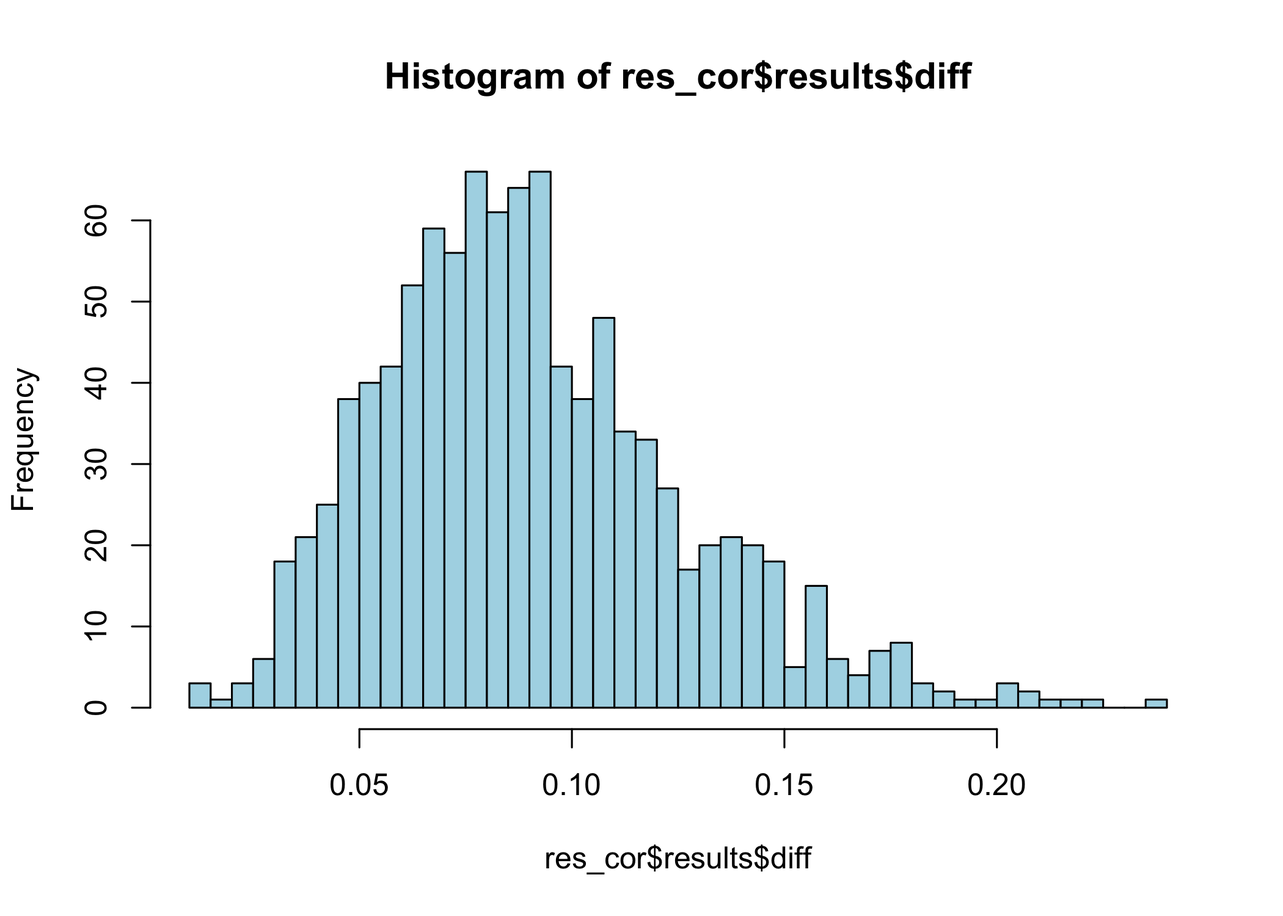
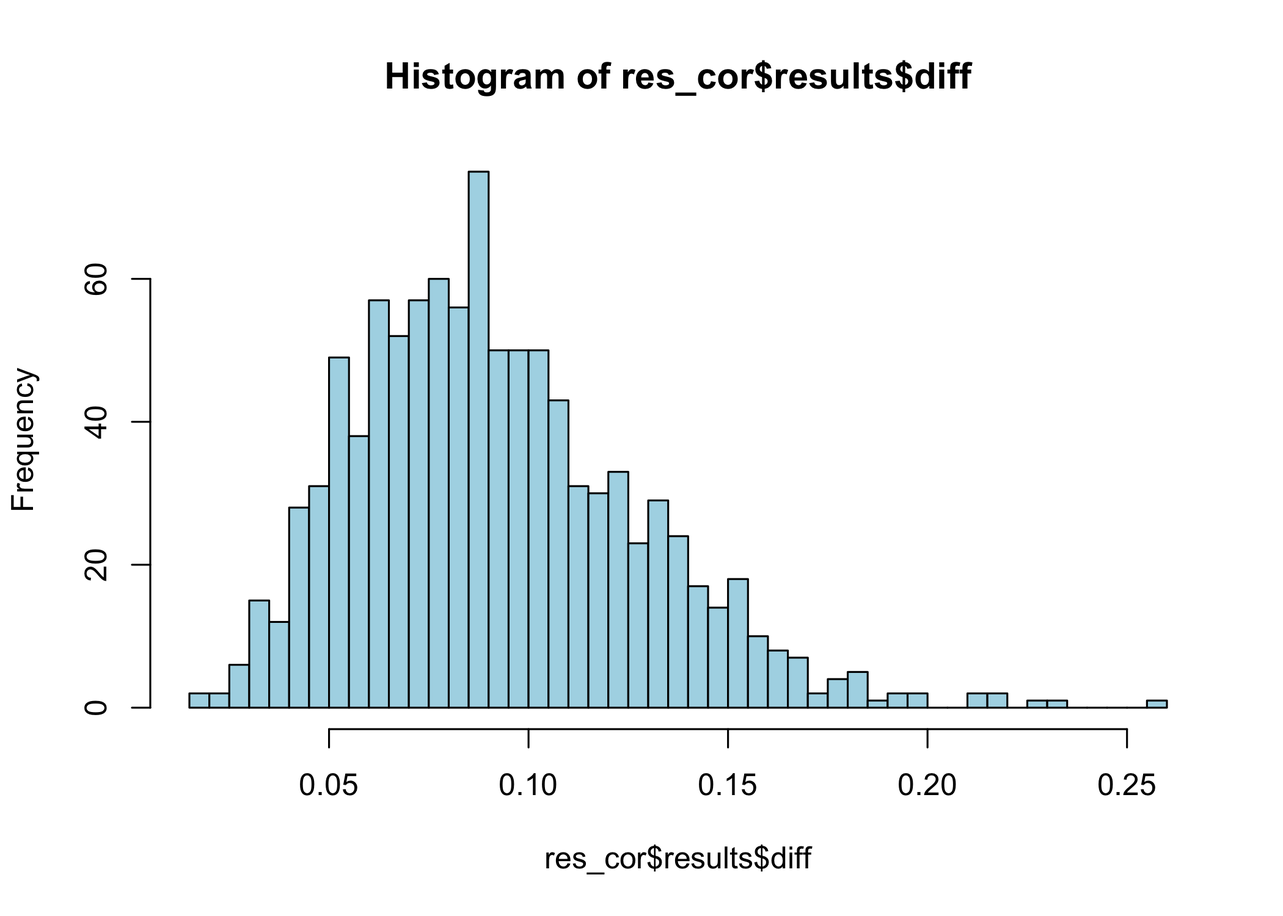
0.2.1 package update

diff --git a/docs/simcutoffs.html b/docs/simcutoffs.html
@@ -257,7 +257,6 @@ div.csl-indent {
 <p>It has long been known that rule-of-thumb cutoff values in psychometrics are not optimal (and often misguiding), and that simulations are helpful for determining appropriate cutoff values based on the properties of the sample and items being analyzed. This actually goes for factor analysis, as well as item response theory and Rasch measurement theory. In recent years, we have seen a number of interactive Shiny apps made available to help solve this issue, which is clearly a step in the right direction.</p>
 <p>My approach here is to write functions to help users easily run these simulations on their computers in R, when they do their psychometric analysis.</p>
 <p>This blog post will be incorporated into the <a href="https://pgmj.github.io/raschrvignette/RaschRvign.html"><code>RISEkbmRasch</code> vignette</a> at some point, but as I just put quite a bit of time into developing these functions I wanted to write something about it. Also, I have not put all that much time into testing, so I hope to hear about any problems you may run into if you try these functions out.</p>
-<p>Since I mostly work with polytomous data, I usually start out developing functions for this type of data. This is also the case now, and I hope to find time to also get dichotomous data working soon.</p>
 <p>Finally, I want to thank Karl Bang Christensen for a very nice presentation on item fit and simulations at the Scandinavian Applied Measurement Conference, which made me think about these things a lot until I came up with the idea to implement these functions.</p>
 </section><section id="residual-correlations" class="level2" data-number="2"><h2 data-number="2" class="anchored" data-anchor-id="residual-correlations">
 <span class="header-section-number">2</span> Residual correlations</h2>
@@ -277,15 +276,15 @@ div.csl-indent {
 </details><div class="cell-output cell-output-stdout">
 <pre><code>List of 8
  $ results    :'data.frame':    1000 obs. of  3 variables:
-  ..$ mean: num [1:1000] -0.263 -0.269 -0.254 -0.268 -0.26 ...
-  ..$ max : num [1:1000] -0.214 -0.154 -0.184 -0.211 -0.233 ...
-  ..$ diff: num [1:1000] 0.0491 0.1153 0.0705 0.0572 0.0275 ...
+  ..$ mean: num [1:1000] -0.26 -0.261 -0.254 -0.268 -0.263 ...
+  ..$ max : num [1:1000] -0.143 -0.162 -0.141 -0.201 -0.128 ...
+  ..$ diff: num [1:1000] 0.1161 0.0994 0.1131 0.0666 0.1345 ...
  $ sample_n   : int 300
  $ sample_mean: num 0.684
  $ sample_sd  : num 1.54
- $ max_diff   : num 0.239
- $ sd_diff    : num 0.0357
- $ q95        : Named num 0.156
+ $ max_diff   : num 0.257
+ $ sd_diff    : num 0.0353
+ $ q95        : Named num 0.154
   ..- attr(*, "names")= chr "95%"
  $ q99        : Named num 0.19
   ..- attr(*, "names")= chr "99%"</code></pre>
@@ -337,7 +336,7 @@ div.csl-indent {
 <tfoot>
 <tr><td style="padding: 0; " colspan="100%"><span style="font-style: italic;">Note: </span></td></tr>
 <tr><td style="padding: 0; " colspan="100%">
-<sup></sup> Relative cut-off value (highlighted in red) is -0.036, which is 0.19 above the average correlation.</td></tr>
+<sup></sup> Relative cut-off value (highlighted in red) is -0.036, which is 0.19 above the average correlation (-0.226).</td></tr>
 </tfoot>
 </table>
 </div>
@@ -355,7 +354,7 @@ div.csl-indent {
 <details open="" class="code-fold"><summary>Code</summary><div class="sourceCode" id="cb7"><pre class="downlit sourceCode r code-with-copy"><code class="sourceCode R"><span><span class="fu"><a href="https://rdrr.io/r/base/summary.html">summary</a></span><span class="op">(</span><span class="va">res_cor</span><span class="op">$</span><span class="va">results</span><span class="op">$</span><span class="va">diff</span><span class="op">)</span></span></code><button title="Copy to Clipboard" class="code-copy-button"><i class="bi"></i></button></pre></div>
 </details><div class="cell-output cell-output-stdout">
 <pre><code>   Min. 1st Qu.  Median    Mean 3rd Qu.    Max. 
-0.01416 0.06503 0.08584 0.09019 0.11034 0.23907 </code></pre>
+0.01910 0.06607 0.08714 0.09183 0.11278 0.25666 </code></pre>
 </div>
 </div>
 </section><section id="item-fit" class="level2" data-number="3"><h2 data-number="3" class="anchored" data-anchor-id="item-fit">
@@ -383,13 +382,13 @@ Note
 <details open="" class="code-fold"><summary>Code</summary><div class="sourceCode" id="cb10"><pre class="downlit sourceCode r code-with-copy"><code class="sourceCode R"><span><span class="va">itemfit_sim</span><span class="op">[[</span><span class="fl">1</span><span class="op">]</span><span class="op">]</span></span></code><button title="Copy to Clipboard" class="code-copy-button"><i class="bi"></i></button></pre></div>
 </details><div class="cell-output cell-output-stdout">
 <pre><code>  item outfit_msq infit_msq outfit_zstd infit_zstd
-1   V1      1.008     0.998      -2.244     -2.495
-2   V2      0.866     0.891      -3.628     -4.213
-3   V3      1.044     1.069      -1.212     -1.190
-4   V4      1.035     1.049      -1.827     -2.237</code></pre>
+1   V1      1.013     0.953      -2.165     -2.916
+2   V2      0.892     0.982      -3.034     -3.026
+3   V3      0.993     0.994      -1.650     -2.012
+4   V4      1.105     1.066      -1.057     -1.689</code></pre>
 </div>
 </div>
-<p>This object can in turn be used with three different functions. Most importantly, you can use it with <code><a href="https://rdrr.io/pkg/RISEkbmRasch/man/RIitemfitPCM.html">RIitemfitPCM()</a></code> to set cutoff values for both MSQ and ZSTD based on your sample size and item parameters. This uses the lowest and highest value from <em>all</em> items as cutoff for all items. This is not ideal, but was the easiest to implement. There will be “custom” cutoffs for every item in the near future.</p>
+<p>This object can in turn be used with three different functions. Most importantly, you can use it with <code><a href="https://rdrr.io/pkg/RISEkbmRasch/man/RIitemfitPCM.html">RIitemfitPCM()</a></code> to set cutoff values for both MSQ and ZSTD based on your sample size and item parameters. This uses the lowest and highest value from <em>all</em> items as cutoff for all items. This is not ideal, but was the easiest to implement. There will be “custom” cutoffs for every item in the near future. Also, <code><a href="https://rdrr.io/pkg/RISEkbmRasch/man/RIitemfitRM.html">RIitemfitRM()</a></code> has not yet been updated to make use of simulation based cutoffs.</p>
 <div class="cell">
 <details open="" class="code-fold"><summary>Code</summary><div class="sourceCode" id="cb12"><pre class="downlit sourceCode r code-with-copy"><code class="sourceCode R"><span><span class="fu"><a href="https://rdrr.io/pkg/RISEkbmRasch/man/RIitemfitPCM.html">RIitemfitPCM</a></span><span class="op">(</span><span class="va">pcmdat2</span>, simcut <span class="op">=</span> <span class="cn">TRUE</span>, gf <span class="op">=</span> <span class="va">itemfit_sim</span><span class="op">)</span></span></code><button title="Copy to Clipboard" class="code-copy-button"><i class="bi"></i></button></pre></div>
 </details><div class="cell-output-display">
@@ -444,9 +443,9 @@ Note
 <details open="" class="code-fold"><summary>Code</summary><div class="sourceCode" id="cb13"><pre class="downlit sourceCode r code-with-copy"><code class="sourceCode R"><span><span class="fu"><a href="https://rdrr.io/pkg/RISEkbmRasch/man/RIgetfitLoHi.html">RIgetfitLoHi</a></span><span class="op">(</span><span class="va">itemfit_sim</span><span class="op">)</span></span></code><button title="Copy to Clipboard" class="code-copy-button"><i class="bi"></i></button></pre></div>
 </details><div class="cell-output cell-output-stdout">
 <pre><code>  max_infit_msq min_infit_msq max_outfit_msq min_outfit_msq max_infit_zstd
-1         1.233           0.8          1.527          0.726          0.258
+1          1.28         0.795          1.422          0.742           0.44
   min_infit_zstd max_outfit_zstd min_outfit_zstd
-1         -5.208           1.034           -4.55</code></pre>
+1         -5.164           0.779          -4.776</code></pre>
 </div>
 </div>
 <p>If you want to see a table with the individual item fit upper/lower cutoffs for all metrics, the function <code><a href="https://rdrr.io/pkg/RISEkbmRasch/man/RIgetfitTable.html">RIgetfitTable()</a></code> is used with the output object from <code><a href="https://rdrr.io/pkg/RISEkbmRasch/man/RIgetfit.html">RIgetfit()</a></code> as input.</p>
@@ -464,31 +463,31 @@ Note
 <tbody>
 <tr>
 <td style="text-align:left;"> V1 </td>
-   <td style="text-align:left;"> [0.826, 1.185] </td>
-   <td style="text-align:left;"> [0.78, 1.239] </td>
-   <td style="text-align:left;"> [-4.727, -0.303] </td>
-   <td style="text-align:left;"> [-4.55, -0.139] </td>
+   <td style="text-align:left;"> [0.815, 1.234] </td>
+   <td style="text-align:left;"> [0.784, 1.316] </td>
+   <td style="text-align:left;"> [-4.88, 0.078] </td>
+   <td style="text-align:left;"> [-4.68, 0.5] </td>
   </tr>
 <tr>
 <td style="text-align:left;"> V2 </td>
-   <td style="text-align:left;"> [0.808, 1.221] </td>
-   <td style="text-align:left;"> [0.726, 1.527] </td>
-   <td style="text-align:left;"> [-5.208, -0.483] </td>
-   <td style="text-align:left;"> [-4.29, 0.313] </td>
+   <td style="text-align:left;"> [0.806, 1.24] </td>
+   <td style="text-align:left;"> [0.75, 1.422] </td>
+   <td style="text-align:left;"> [-5.164, -0.632] </td>
+   <td style="text-align:left;"> [-4.569, 0.141] </td>
   </tr>
 <tr>
 <td style="text-align:left;"> V3 </td>
-   <td style="text-align:left;"> [0.806, 1.192] </td>
-   <td style="text-align:left;"> [0.74, 1.282] </td>
-   <td style="text-align:left;"> [-4.269, 0.258] </td>
-   <td style="text-align:left;"> [-4.056, 1.034] </td>
+   <td style="text-align:left;"> [0.8, 1.167] </td>
+   <td style="text-align:left;"> [0.752, 1.296] </td>
+   <td style="text-align:left;"> [-4.316, 0.133] </td>
+   <td style="text-align:left;"> [-3.882, 0.779] </td>
   </tr>
 <tr>
 <td style="text-align:left;"> V4 </td>
-   <td style="text-align:left;"> [0.8, 1.233] </td>
-   <td style="text-align:left;"> [0.796, 1.388] </td>
-   <td style="text-align:left;"> [-4.77, 0.141] </td>
-   <td style="text-align:left;"> [-4.09, 0.862] </td>
+   <td style="text-align:left;"> [0.795, 1.28] </td>
+   <td style="text-align:left;"> [0.742, 1.287] </td>
+   <td style="text-align:left;"> [-4.957, 0.44] </td>
+   <td style="text-align:left;"> [-4.776, 0.41] </td>
   </tr>
 </tbody>
 <tfoot>
@@ -536,7 +535,7 @@ attached base packages:
 
 other attached packages:
  [1] ggdist_3.3.2       doParallel_1.0.17  iterators_1.0.14   foreach_1.5.2     
- [5] RISEkbmRasch_0.2.0 janitor_2.2.0      iarm_0.4.3         hexbin_1.28.3     
+ [5] RISEkbmRasch_0.2.1 janitor_2.2.0      iarm_0.4.3         hexbin_1.28.3     
  [9] catR_3.17          glue_1.7.0         ggrepel_0.9.5      patchwork_1.2.0   
 [13] reshape_0.8.9      matrixStats_1.3.0  psychotree_0.16-1  psychotools_0.7-4 
 [17] partykit_1.2-21    mvtnorm_1.2-5      libcoin_1.0-10     psych_2.4.6.26    
@@ -1113,107 +1112,105 @@ window.document.addEventListener("DOMContentLoaded", function (event) {
 <span id="cb19-29"><a href="#cb19-29" aria-hidden="true" tabindex="-1"></a></span>
 <span id="cb19-30"><a href="#cb19-30" aria-hidden="true" tabindex="-1"></a>This blog post will be incorporated into the <span class="co">[</span><span class="ot">`RISEkbmRasch` vignette</span><span class="co">](https://pgmj.github.io/raschrvignette/RaschRvign.html)</span> at some point, but as I just put quite a bit of time into developing these functions I wanted to write something about it. Also, I have not put all that much time into testing, so I hope to hear about any problems you may run into if you try these functions out.</span>
 <span id="cb19-31"><a href="#cb19-31" aria-hidden="true" tabindex="-1"></a></span>
-<span id="cb19-32"><a href="#cb19-32" aria-hidden="true" tabindex="-1"></a>Since I mostly work with polytomous data, I usually start out developing functions for this type of data. This is also the case now, and I hope to find time to also get dichotomous data working soon.</span>
+<span id="cb19-32"><a href="#cb19-32" aria-hidden="true" tabindex="-1"></a>Finally, I want to thank Karl Bang Christensen for a very nice presentation on item fit and simulations at the Scandinavian Applied Measurement Conference, which made me think about these things a lot until I came up with the idea to implement these functions.</span>
 <span id="cb19-33"><a href="#cb19-33" aria-hidden="true" tabindex="-1"></a></span>
-<span id="cb19-34"><a href="#cb19-34" aria-hidden="true" tabindex="-1"></a>Finally, I want to thank Karl Bang Christensen for a very nice presentation on item fit and simulations at the Scandinavian Applied Measurement Conference, which made me think about these things a lot until I came up with the idea to implement these functions.</span>
+<span id="cb19-34"><a href="#cb19-34" aria-hidden="true" tabindex="-1"></a><span class="fu">## Residual correlations</span></span>
 <span id="cb19-35"><a href="#cb19-35" aria-hidden="true" tabindex="-1"></a></span>
-<span id="cb19-36"><a href="#cb19-36" aria-hidden="true" tabindex="-1"></a><span class="fu">## Residual correlations</span></span>
+<span id="cb19-36"><a href="#cb19-36" aria-hidden="true" tabindex="-1"></a>This is the simpler of the two functions that have been added. It is based on the simulation study by Christensen et al. <span class="co">[</span><span class="ot">-@christensen2017</span><span class="co">]</span>.</span>
 <span id="cb19-37"><a href="#cb19-37" aria-hidden="true" tabindex="-1"></a></span>
-<span id="cb19-38"><a href="#cb19-38" aria-hidden="true" tabindex="-1"></a>This is the simpler of the two functions that have been added. It is based on the simulation study by Christensen et al. <span class="co">[</span><span class="ot">-@christensen2017</span><span class="co">]</span>.</span>
-<span id="cb19-39"><a href="#cb19-39" aria-hidden="true" tabindex="-1"></a></span>
-<span id="cb19-42"><a href="#cb19-42" aria-hidden="true" tabindex="-1"></a><span class="in">```{r}</span></span>
-<span id="cb19-43"><a href="#cb19-43" aria-hidden="true" tabindex="-1"></a><span class="fu">library</span>(RISEkbmRasch)</span>
-<span id="cb19-44"><a href="#cb19-44" aria-hidden="true" tabindex="-1"></a><span class="in">```</span></span>
+<span id="cb19-40"><a href="#cb19-40" aria-hidden="true" tabindex="-1"></a><span class="in">```{r}</span></span>
+<span id="cb19-41"><a href="#cb19-41" aria-hidden="true" tabindex="-1"></a><span class="fu">library</span>(RISEkbmRasch)</span>
+<span id="cb19-42"><a href="#cb19-42" aria-hidden="true" tabindex="-1"></a><span class="in">```</span></span>
+<span id="cb19-43"><a href="#cb19-43" aria-hidden="true" tabindex="-1"></a></span>
+<span id="cb19-44"><a href="#cb19-44" aria-hidden="true" tabindex="-1"></a>For simplicity, we will use the dataset <span class="in">`pcmdat2`</span> included in the <span class="in">`eRm`</span> package.</span>
 <span id="cb19-45"><a href="#cb19-45" aria-hidden="true" tabindex="-1"></a></span>
-<span id="cb19-46"><a href="#cb19-46" aria-hidden="true" tabindex="-1"></a>For simplicity, we will use the dataset <span class="in">`pcmdat2`</span> included in the <span class="in">`eRm`</span> package.</span>
-<span id="cb19-47"><a href="#cb19-47" aria-hidden="true" tabindex="-1"></a></span>
-<span id="cb19-50"><a href="#cb19-50" aria-hidden="true" tabindex="-1"></a><span class="in">```{r}</span></span>
-<span id="cb19-51"><a href="#cb19-51" aria-hidden="true" tabindex="-1"></a>res_cor <span class="ot">&lt;-</span> <span class="fu">RIgetResidCor</span>(pcmdat2, <span class="at">iterations =</span> <span class="dv">1000</span>, <span class="at">cpu =</span> <span class="dv">8</span>)</span>
-<span id="cb19-52"><a href="#cb19-52" aria-hidden="true" tabindex="-1"></a><span class="in">```</span></span>
+<span id="cb19-48"><a href="#cb19-48" aria-hidden="true" tabindex="-1"></a><span class="in">```{r}</span></span>
+<span id="cb19-49"><a href="#cb19-49" aria-hidden="true" tabindex="-1"></a>res_cor <span class="ot">&lt;-</span> <span class="fu">RIgetResidCor</span>(pcmdat2, <span class="at">iterations =</span> <span class="dv">1000</span>, <span class="at">cpu =</span> <span class="dv">8</span>)</span>
+<span id="cb19-50"><a href="#cb19-50" aria-hidden="true" tabindex="-1"></a><span class="in">```</span></span>
+<span id="cb19-51"><a href="#cb19-51" aria-hidden="true" tabindex="-1"></a></span>
+<span id="cb19-52"><a href="#cb19-52" aria-hidden="true" tabindex="-1"></a>While we are mostly interested in the 99% percentile from the simulation (<span class="in">`q99`</span>), we will save the output of the simulation into the object <span class="in">`res_cor`</span>.</span>
 <span id="cb19-53"><a href="#cb19-53" aria-hidden="true" tabindex="-1"></a></span>
-<span id="cb19-54"><a href="#cb19-54" aria-hidden="true" tabindex="-1"></a>While we are mostly interested in the 99% percentile from the simulation (<span class="in">`q99`</span>), we will save the output of the simulation into the object <span class="in">`res_cor`</span>.</span>
-<span id="cb19-55"><a href="#cb19-55" aria-hidden="true" tabindex="-1"></a></span>
-<span id="cb19-58"><a href="#cb19-58" aria-hidden="true" tabindex="-1"></a><span class="in">```{r}</span></span>
-<span id="cb19-59"><a href="#cb19-59" aria-hidden="true" tabindex="-1"></a><span class="fu">glimpse</span>(res_cor)</span>
-<span id="cb19-60"><a href="#cb19-60" aria-hidden="true" tabindex="-1"></a><span class="in">```</span></span>
+<span id="cb19-56"><a href="#cb19-56" aria-hidden="true" tabindex="-1"></a><span class="in">```{r}</span></span>
+<span id="cb19-57"><a href="#cb19-57" aria-hidden="true" tabindex="-1"></a><span class="fu">glimpse</span>(res_cor)</span>
+<span id="cb19-58"><a href="#cb19-58" aria-hidden="true" tabindex="-1"></a><span class="in">```</span></span>
+<span id="cb19-59"><a href="#cb19-59" aria-hidden="true" tabindex="-1"></a></span>
+<span id="cb19-60"><a href="#cb19-60" aria-hidden="true" tabindex="-1"></a>The object contains a dataframe with mean and max values for residual correlations within each dataset simulated, and the difference between the mean and the max. This difference is the key metric we are interested in.</span>
 <span id="cb19-61"><a href="#cb19-61" aria-hidden="true" tabindex="-1"></a></span>
-<span id="cb19-62"><a href="#cb19-62" aria-hidden="true" tabindex="-1"></a>The object contains a dataframe with mean and max values for residual correlations within each dataset simulated, and the difference between the mean and the max. This difference is the key metric we are interested in.</span>
+<span id="cb19-62"><a href="#cb19-62" aria-hidden="true" tabindex="-1"></a>Based on the simulations I have made so far, it seems that 1000 iterations may be sufficient for a reasonably accurate 99% percentile value (<span class="in">`q99`</span>) value. The max value will increase with the number of iterations, and it seems to be a bit spurious, so I would suggest to use the 99% percentile value as the cutoff. For more detailed information on the topic I refer to Christensen et al. <span class="co">[</span><span class="ot">-@christensen2017</span><span class="co">]</span>.</span>
 <span id="cb19-63"><a href="#cb19-63" aria-hidden="true" tabindex="-1"></a></span>
-<span id="cb19-64"><a href="#cb19-64" aria-hidden="true" tabindex="-1"></a>Based on the simulations I have made so far, it seems that 1000 iterations may be sufficient for a reasonably accurate 99% percentile value (<span class="in">`q99`</span>) value. The max value will increase with the number of iterations, and it seems to be a bit spurious, so I would suggest to use the 99% percentile value as the cutoff. For more detailed information on the topic I refer to Christensen et al. <span class="co">[</span><span class="ot">-@christensen2017</span><span class="co">]</span>.</span>
-<span id="cb19-65"><a href="#cb19-65" aria-hidden="true" tabindex="-1"></a></span>
-<span id="cb19-68"><a href="#cb19-68" aria-hidden="true" tabindex="-1"></a><span class="in">```{r}</span></span>
-<span id="cb19-69"><a href="#cb19-69" aria-hidden="true" tabindex="-1"></a><span class="fu">RIresidcorr</span>(pcmdat2, <span class="at">cutoff =</span> res_cor<span class="sc">$</span>q99)</span>
-<span id="cb19-70"><a href="#cb19-70" aria-hidden="true" tabindex="-1"></a><span class="in">```</span></span>
+<span id="cb19-66"><a href="#cb19-66" aria-hidden="true" tabindex="-1"></a><span class="in">```{r}</span></span>
+<span id="cb19-67"><a href="#cb19-67" aria-hidden="true" tabindex="-1"></a><span class="fu">RIresidcorr</span>(pcmdat2, <span class="at">cutoff =</span> res_cor<span class="sc">$</span>q99)</span>
+<span id="cb19-68"><a href="#cb19-68" aria-hidden="true" tabindex="-1"></a><span class="in">```</span></span>
+<span id="cb19-69"><a href="#cb19-69" aria-hidden="true" tabindex="-1"></a></span>
+<span id="cb19-70"><a href="#cb19-70" aria-hidden="true" tabindex="-1"></a>We can see that items 3 and 4 have a residual correlation between them that is quite a bit above the threshold value.</span>
 <span id="cb19-71"><a href="#cb19-71" aria-hidden="true" tabindex="-1"></a></span>
-<span id="cb19-72"><a href="#cb19-72" aria-hidden="true" tabindex="-1"></a>We can see that items 3 and 4 have a residual correlation between them that is quite a bit above the threshold value.</span>
+<span id="cb19-72"><a href="#cb19-72" aria-hidden="true" tabindex="-1"></a>Since the results of the simulation is included in the output object, we can investigate it further.</span>
 <span id="cb19-73"><a href="#cb19-73" aria-hidden="true" tabindex="-1"></a></span>
-<span id="cb19-74"><a href="#cb19-74" aria-hidden="true" tabindex="-1"></a>Since the results of the simulation is included in the output object, we can investigate it further.</span>
-<span id="cb19-75"><a href="#cb19-75" aria-hidden="true" tabindex="-1"></a></span>
-<span id="cb19-78"><a href="#cb19-78" aria-hidden="true" tabindex="-1"></a><span class="in">```{r}</span></span>
-<span id="cb19-79"><a href="#cb19-79" aria-hidden="true" tabindex="-1"></a><span class="fu">hist</span>(res_cor<span class="sc">$</span>results<span class="sc">$</span>diff, <span class="at">breaks =</span> <span class="dv">50</span>, <span class="at">col =</span> <span class="st">"lightblue"</span>)</span>
-<span id="cb19-80"><a href="#cb19-80" aria-hidden="true" tabindex="-1"></a><span class="fu">summary</span>(res_cor<span class="sc">$</span>results<span class="sc">$</span>diff)</span>
-<span id="cb19-81"><a href="#cb19-81" aria-hidden="true" tabindex="-1"></a><span class="in">```</span></span>
+<span id="cb19-76"><a href="#cb19-76" aria-hidden="true" tabindex="-1"></a><span class="in">```{r}</span></span>
+<span id="cb19-77"><a href="#cb19-77" aria-hidden="true" tabindex="-1"></a><span class="fu">hist</span>(res_cor<span class="sc">$</span>results<span class="sc">$</span>diff, <span class="at">breaks =</span> <span class="dv">50</span>, <span class="at">col =</span> <span class="st">"lightblue"</span>)</span>
+<span id="cb19-78"><a href="#cb19-78" aria-hidden="true" tabindex="-1"></a><span class="fu">summary</span>(res_cor<span class="sc">$</span>results<span class="sc">$</span>diff)</span>
+<span id="cb19-79"><a href="#cb19-79" aria-hidden="true" tabindex="-1"></a><span class="in">```</span></span>
+<span id="cb19-80"><a href="#cb19-80" aria-hidden="true" tabindex="-1"></a></span>
+<span id="cb19-81"><a href="#cb19-81" aria-hidden="true" tabindex="-1"></a><span class="fu">## Item fit</span></span>
 <span id="cb19-82"><a href="#cb19-82" aria-hidden="true" tabindex="-1"></a></span>
-<span id="cb19-83"><a href="#cb19-83" aria-hidden="true" tabindex="-1"></a><span class="fu">## Item fit</span></span>
+<span id="cb19-83"><a href="#cb19-83" aria-hidden="true" tabindex="-1"></a>While conditional item fit is a huge step towards getting correct item fit values, no matter what the sample size is <span class="co">[</span><span class="ot">@muller_item_2020;@buchardt_visualizing_2023</span><span class="co">]</span>, we also need to know the range of values that are plausible for items fitting the Rasch model in the current context. The specific properties of the sample and the items is used to simulate multiple datasets that fit the Rasch model, to understand the variation in item fit that can be expected. The simulation results can then be compared with the observed data.</span>
 <span id="cb19-84"><a href="#cb19-84" aria-hidden="true" tabindex="-1"></a></span>
-<span id="cb19-85"><a href="#cb19-85" aria-hidden="true" tabindex="-1"></a>While conditional item fit is a huge step towards getting correct item fit values, no matter what the sample size is <span class="co">[</span><span class="ot">@muller_item_2020;@buchardt_visualizing_2023</span><span class="co">]</span>, we also need to know the range of values that are plausible for items fitting the Rasch model in the current context. The specific properties of the sample and the items is used to simulate multiple datasets that fit the Rasch model, to understand the variation in item fit that can be expected. The simulation results can then be compared with the observed data.</span>
-<span id="cb19-86"><a href="#cb19-86" aria-hidden="true" tabindex="-1"></a></span>
-<span id="cb19-87"><a href="#cb19-87" aria-hidden="true" tabindex="-1"></a>::: {.callout-note}</span>
-<span id="cb19-88"><a href="#cb19-88" aria-hidden="true" tabindex="-1"></a>We will use 1000 simulations, but no extensive tests have been made (yet) to determine a reasonable number of simulations. The more items/thresholds and the bigger your sample size, the more time this simulation will take. If you have more cpu cores, this will reduce the time (please remember to not use all cores, leave 1-2 unused). To give some reference, the code below (n = 300, 4 items, 4 response categories) using 500 iterations took 7.7 seconds on 8 cpu cores and 11.7 seconds on 4 cores. 1000 iterations on 8 cores took 12.8 seconds (based on single runs).</span>
-<span id="cb19-89"><a href="#cb19-89" aria-hidden="true" tabindex="-1"></a>:::</span>
-<span id="cb19-90"><a href="#cb19-90" aria-hidden="true" tabindex="-1"></a></span>
-<span id="cb19-93"><a href="#cb19-93" aria-hidden="true" tabindex="-1"></a><span class="in">```{r}</span></span>
-<span id="cb19-94"><a href="#cb19-94" aria-hidden="true" tabindex="-1"></a>itemfit_sim <span class="ot">&lt;-</span> <span class="fu">RIgetfit</span>(pcmdat2, <span class="at">iterations =</span> <span class="dv">1000</span>, <span class="at">cpu =</span> <span class="dv">8</span>)</span>
-<span id="cb19-95"><a href="#cb19-95" aria-hidden="true" tabindex="-1"></a><span class="in">```</span></span>
-<span id="cb19-96"><a href="#cb19-96" aria-hidden="true" tabindex="-1"></a></span>
-<span id="cb19-97"><a href="#cb19-97" aria-hidden="true" tabindex="-1"></a>The output is a list object consisting of one dataframe per iteration. We can look at iteration 1:</span>
-<span id="cb19-100"><a href="#cb19-100" aria-hidden="true" tabindex="-1"></a><span class="in">```{r}</span></span>
-<span id="cb19-101"><a href="#cb19-101" aria-hidden="true" tabindex="-1"></a>itemfit_sim[[<span class="dv">1</span>]]</span>
-<span id="cb19-102"><a href="#cb19-102" aria-hidden="true" tabindex="-1"></a><span class="in">```</span></span>
-<span id="cb19-103"><a href="#cb19-103" aria-hidden="true" tabindex="-1"></a></span>
-<span id="cb19-104"><a href="#cb19-104" aria-hidden="true" tabindex="-1"></a>This object can in turn be used with three different</span>
-<span id="cb19-105"><a href="#cb19-105" aria-hidden="true" tabindex="-1"></a>functions. Most importantly, you can use it with <span class="in">`RIitemfitPCM()`</span> to set</span>
-<span id="cb19-106"><a href="#cb19-106" aria-hidden="true" tabindex="-1"></a>cutoff values for both MSQ and ZSTD based on your sample size and item</span>
-<span id="cb19-107"><a href="#cb19-107" aria-hidden="true" tabindex="-1"></a>parameters. This uses the lowest and highest value from *all* items as cutoff</span>
-<span id="cb19-108"><a href="#cb19-108" aria-hidden="true" tabindex="-1"></a>for all items. This is not ideal, but was the easiest to implement. There will be "custom" cutoffs for every item in the near future.</span>
-<span id="cb19-109"><a href="#cb19-109" aria-hidden="true" tabindex="-1"></a></span>
-<span id="cb19-112"><a href="#cb19-112" aria-hidden="true" tabindex="-1"></a><span class="in">```{r}</span></span>
-<span id="cb19-113"><a href="#cb19-113" aria-hidden="true" tabindex="-1"></a><span class="fu">RIitemfitPCM</span>(pcmdat2, <span class="at">simcut =</span> <span class="cn">TRUE</span>, <span class="at">gf =</span> itemfit_sim)</span>
-<span id="cb19-114"><a href="#cb19-114" aria-hidden="true" tabindex="-1"></a><span class="in">```</span></span>
+<span id="cb19-85"><a href="#cb19-85" aria-hidden="true" tabindex="-1"></a>::: {.callout-note}</span>
+<span id="cb19-86"><a href="#cb19-86" aria-hidden="true" tabindex="-1"></a>We will use 1000 simulations, but no extensive tests have been made (yet) to determine a reasonable number of simulations. The more items/thresholds and the bigger your sample size, the more time this simulation will take. If you have more cpu cores, this will reduce the time (please remember to not use all cores, leave 1-2 unused). To give some reference, the code below (n = 300, 4 items, 4 response categories) using 500 iterations took 7.7 seconds on 8 cpu cores and 11.7 seconds on 4 cores. 1000 iterations on 8 cores took 12.8 seconds (based on single runs).</span>
+<span id="cb19-87"><a href="#cb19-87" aria-hidden="true" tabindex="-1"></a>:::</span>
+<span id="cb19-88"><a href="#cb19-88" aria-hidden="true" tabindex="-1"></a></span>
+<span id="cb19-91"><a href="#cb19-91" aria-hidden="true" tabindex="-1"></a><span class="in">```{r}</span></span>
+<span id="cb19-92"><a href="#cb19-92" aria-hidden="true" tabindex="-1"></a>itemfit_sim <span class="ot">&lt;-</span> <span class="fu">RIgetfit</span>(pcmdat2, <span class="at">iterations =</span> <span class="dv">1000</span>, <span class="at">cpu =</span> <span class="dv">8</span>)</span>
+<span id="cb19-93"><a href="#cb19-93" aria-hidden="true" tabindex="-1"></a><span class="in">```</span></span>
+<span id="cb19-94"><a href="#cb19-94" aria-hidden="true" tabindex="-1"></a></span>
+<span id="cb19-95"><a href="#cb19-95" aria-hidden="true" tabindex="-1"></a>The output is a list object consisting of one dataframe per iteration. We can look at iteration 1:</span>
+<span id="cb19-98"><a href="#cb19-98" aria-hidden="true" tabindex="-1"></a><span class="in">```{r}</span></span>
+<span id="cb19-99"><a href="#cb19-99" aria-hidden="true" tabindex="-1"></a>itemfit_sim[[<span class="dv">1</span>]]</span>
+<span id="cb19-100"><a href="#cb19-100" aria-hidden="true" tabindex="-1"></a><span class="in">```</span></span>
+<span id="cb19-101"><a href="#cb19-101" aria-hidden="true" tabindex="-1"></a></span>
+<span id="cb19-102"><a href="#cb19-102" aria-hidden="true" tabindex="-1"></a>This object can in turn be used with three different</span>
+<span id="cb19-103"><a href="#cb19-103" aria-hidden="true" tabindex="-1"></a>functions. Most importantly, you can use it with <span class="in">`RIitemfitPCM()`</span> to set</span>
+<span id="cb19-104"><a href="#cb19-104" aria-hidden="true" tabindex="-1"></a>cutoff values for both MSQ and ZSTD based on your sample size and item</span>
+<span id="cb19-105"><a href="#cb19-105" aria-hidden="true" tabindex="-1"></a>parameters. This uses the lowest and highest value from *all* items as cutoff</span>
+<span id="cb19-106"><a href="#cb19-106" aria-hidden="true" tabindex="-1"></a>for all items. This is not ideal, but was the easiest to implement. There will be "custom" cutoffs for every item in the near future. Also, <span class="in">`RIitemfitRM()`</span> has not yet been updated to make use of simulation based cutoffs.</span>
+<span id="cb19-107"><a href="#cb19-107" aria-hidden="true" tabindex="-1"></a></span>
+<span id="cb19-110"><a href="#cb19-110" aria-hidden="true" tabindex="-1"></a><span class="in">```{r}</span></span>
+<span id="cb19-111"><a href="#cb19-111" aria-hidden="true" tabindex="-1"></a><span class="fu">RIitemfitPCM</span>(pcmdat2, <span class="at">simcut =</span> <span class="cn">TRUE</span>, <span class="at">gf =</span> itemfit_sim)</span>
+<span id="cb19-112"><a href="#cb19-112" aria-hidden="true" tabindex="-1"></a><span class="in">```</span></span>
+<span id="cb19-113"><a href="#cb19-113" aria-hidden="true" tabindex="-1"></a></span>
+<span id="cb19-114"><a href="#cb19-114" aria-hidden="true" tabindex="-1"></a>All items seem to fit the Rasch model quite well. Values crossing the cutoff thresholds would be colorized red. The cutoff values used can be shown with</span>
 <span id="cb19-115"><a href="#cb19-115" aria-hidden="true" tabindex="-1"></a></span>
-<span id="cb19-116"><a href="#cb19-116" aria-hidden="true" tabindex="-1"></a>All items seem to fit the Rasch model quite well. Values crossing the cutoff thresholds would be colorized red. The cutoff values used can be shown with</span>
-<span id="cb19-117"><a href="#cb19-117" aria-hidden="true" tabindex="-1"></a></span>
-<span id="cb19-120"><a href="#cb19-120" aria-hidden="true" tabindex="-1"></a><span class="in">```{r}</span></span>
-<span id="cb19-121"><a href="#cb19-121" aria-hidden="true" tabindex="-1"></a><span class="fu">RIgetfitLoHi</span>(itemfit_sim)</span>
-<span id="cb19-122"><a href="#cb19-122" aria-hidden="true" tabindex="-1"></a><span class="in">```</span></span>
-<span id="cb19-123"><a href="#cb19-123" aria-hidden="true" tabindex="-1"></a></span>
-<span id="cb19-124"><a href="#cb19-124" aria-hidden="true" tabindex="-1"></a>If you want to see a table with the individual item fit upper/lower cutoffs for all metrics,</span>
-<span id="cb19-125"><a href="#cb19-125" aria-hidden="true" tabindex="-1"></a>the function <span class="in">`RIgetfitTable()`</span> is used with the output object from <span class="in">`RIgetfit()`</span> as input.</span>
-<span id="cb19-126"><a href="#cb19-126" aria-hidden="true" tabindex="-1"></a></span>
-<span id="cb19-129"><a href="#cb19-129" aria-hidden="true" tabindex="-1"></a><span class="in">```{r}</span></span>
-<span id="cb19-130"><a href="#cb19-130" aria-hidden="true" tabindex="-1"></a><span class="fu">RIgetfitTable</span>(itemfit_sim)</span>
-<span id="cb19-131"><a href="#cb19-131" aria-hidden="true" tabindex="-1"></a><span class="in">```</span></span>
-<span id="cb19-132"><a href="#cb19-132" aria-hidden="true" tabindex="-1"></a></span>
-<span id="cb19-133"><a href="#cb19-133" aria-hidden="true" tabindex="-1"></a>The function <span class="in">`RIgetfitPlot()`</span> uses the package <span class="in">`ggdist`</span> to plot the</span>
-<span id="cb19-134"><a href="#cb19-134" aria-hidden="true" tabindex="-1"></a>distribution of fit values from the simulation results.</span>
-<span id="cb19-135"><a href="#cb19-135" aria-hidden="true" tabindex="-1"></a></span>
-<span id="cb19-138"><a href="#cb19-138" aria-hidden="true" tabindex="-1"></a><span class="in">```{r}</span></span>
-<span id="cb19-139"><a href="#cb19-139" aria-hidden="true" tabindex="-1"></a><span class="co">#| fig-height: 7</span></span>
-<span id="cb19-140"><a href="#cb19-140" aria-hidden="true" tabindex="-1"></a><span class="fu">RIgetfitPlot</span>(itemfit_sim)</span>
-<span id="cb19-141"><a href="#cb19-141" aria-hidden="true" tabindex="-1"></a><span class="in">```</span></span>
+<span id="cb19-118"><a href="#cb19-118" aria-hidden="true" tabindex="-1"></a><span class="in">```{r}</span></span>
+<span id="cb19-119"><a href="#cb19-119" aria-hidden="true" tabindex="-1"></a><span class="fu">RIgetfitLoHi</span>(itemfit_sim)</span>
+<span id="cb19-120"><a href="#cb19-120" aria-hidden="true" tabindex="-1"></a><span class="in">```</span></span>
+<span id="cb19-121"><a href="#cb19-121" aria-hidden="true" tabindex="-1"></a></span>
+<span id="cb19-122"><a href="#cb19-122" aria-hidden="true" tabindex="-1"></a>If you want to see a table with the individual item fit upper/lower cutoffs for all metrics,</span>
+<span id="cb19-123"><a href="#cb19-123" aria-hidden="true" tabindex="-1"></a>the function <span class="in">`RIgetfitTable()`</span> is used with the output object from <span class="in">`RIgetfit()`</span> as input.</span>
+<span id="cb19-124"><a href="#cb19-124" aria-hidden="true" tabindex="-1"></a></span>
+<span id="cb19-127"><a href="#cb19-127" aria-hidden="true" tabindex="-1"></a><span class="in">```{r}</span></span>
+<span id="cb19-128"><a href="#cb19-128" aria-hidden="true" tabindex="-1"></a><span class="fu">RIgetfitTable</span>(itemfit_sim)</span>
+<span id="cb19-129"><a href="#cb19-129" aria-hidden="true" tabindex="-1"></a><span class="in">```</span></span>
+<span id="cb19-130"><a href="#cb19-130" aria-hidden="true" tabindex="-1"></a></span>
+<span id="cb19-131"><a href="#cb19-131" aria-hidden="true" tabindex="-1"></a>The function <span class="in">`RIgetfitPlot()`</span> uses the package <span class="in">`ggdist`</span> to plot the</span>
+<span id="cb19-132"><a href="#cb19-132" aria-hidden="true" tabindex="-1"></a>distribution of fit values from the simulation results.</span>
+<span id="cb19-133"><a href="#cb19-133" aria-hidden="true" tabindex="-1"></a></span>
+<span id="cb19-136"><a href="#cb19-136" aria-hidden="true" tabindex="-1"></a><span class="in">```{r}</span></span>
+<span id="cb19-137"><a href="#cb19-137" aria-hidden="true" tabindex="-1"></a><span class="co">#| fig-height: 7</span></span>
+<span id="cb19-138"><a href="#cb19-138" aria-hidden="true" tabindex="-1"></a><span class="fu">RIgetfitPlot</span>(itemfit_sim)</span>
+<span id="cb19-139"><a href="#cb19-139" aria-hidden="true" tabindex="-1"></a><span class="in">```</span></span>
+<span id="cb19-140"><a href="#cb19-140" aria-hidden="true" tabindex="-1"></a></span>
+<span id="cb19-141"><a href="#cb19-141" aria-hidden="true" tabindex="-1"></a>As you can see, there is variation in the different fit metrics across the items, which highlights the need for indicating this in the <span class="in">`RIitemfitPCM()`</span> table with separate cutoff values for all items/metrics.</span>
 <span id="cb19-142"><a href="#cb19-142" aria-hidden="true" tabindex="-1"></a></span>
-<span id="cb19-143"><a href="#cb19-143" aria-hidden="true" tabindex="-1"></a>As you can see, there is variation in the different fit metrics across the items, which highlights the need for indicating this in the <span class="in">`RIitemfitPCM()`</span> table with separate cutoff values for all items/metrics.</span>
+<span id="cb19-143"><a href="#cb19-143" aria-hidden="true" tabindex="-1"></a>It also seems most reasonable to use the 99th (upper/lower) percentile for item fit metrics. I will be implementing this change in a future update to the <span class="in">`RISEkbmRasch`</span> package.</span>
 <span id="cb19-144"><a href="#cb19-144" aria-hidden="true" tabindex="-1"></a></span>
-<span id="cb19-145"><a href="#cb19-145" aria-hidden="true" tabindex="-1"></a>It also seems most reasonable to use the 99th (upper/lower) percentile for item fit metrics. I will be implementing this change in a future update to the <span class="in">`RISEkbmRasch`</span> package.</span>
+<span id="cb19-145"><a href="#cb19-145" aria-hidden="true" tabindex="-1"></a><span class="fu">## Session info</span></span>
 <span id="cb19-146"><a href="#cb19-146" aria-hidden="true" tabindex="-1"></a></span>
-<span id="cb19-147"><a href="#cb19-147" aria-hidden="true" tabindex="-1"></a><span class="fu">## Session info</span></span>
-<span id="cb19-148"><a href="#cb19-148" aria-hidden="true" tabindex="-1"></a></span>
-<span id="cb19-151"><a href="#cb19-151" aria-hidden="true" tabindex="-1"></a><span class="in">```{r}</span></span>
-<span id="cb19-152"><a href="#cb19-152" aria-hidden="true" tabindex="-1"></a><span class="fu">sessionInfo</span>()</span>
-<span id="cb19-153"><a href="#cb19-153" aria-hidden="true" tabindex="-1"></a><span class="in">```</span></span>
+<span id="cb19-149"><a href="#cb19-149" aria-hidden="true" tabindex="-1"></a><span class="in">```{r}</span></span>
+<span id="cb19-150"><a href="#cb19-150" aria-hidden="true" tabindex="-1"></a><span class="fu">sessionInfo</span>()</span>
+<span id="cb19-151"><a href="#cb19-151" aria-hidden="true" tabindex="-1"></a><span class="in">```</span></span>
+<span id="cb19-152"><a href="#cb19-152" aria-hidden="true" tabindex="-1"></a></span>
+<span id="cb19-153"><a href="#cb19-153" aria-hidden="true" tabindex="-1"></a><span class="fu">## References</span></span>
 <span id="cb19-154"><a href="#cb19-154" aria-hidden="true" tabindex="-1"></a></span>
-<span id="cb19-155"><a href="#cb19-155" aria-hidden="true" tabindex="-1"></a><span class="fu">## References</span></span>
-<span id="cb19-156"><a href="#cb19-156" aria-hidden="true" tabindex="-1"></a></span>
 </code><button title="Copy to Clipboard" class="code-copy-button" data-in-quarto-modal=""><i class="bi"></i></button></pre></div>
 </div></div></div></div></div>
 </div> <!-- /content -->
